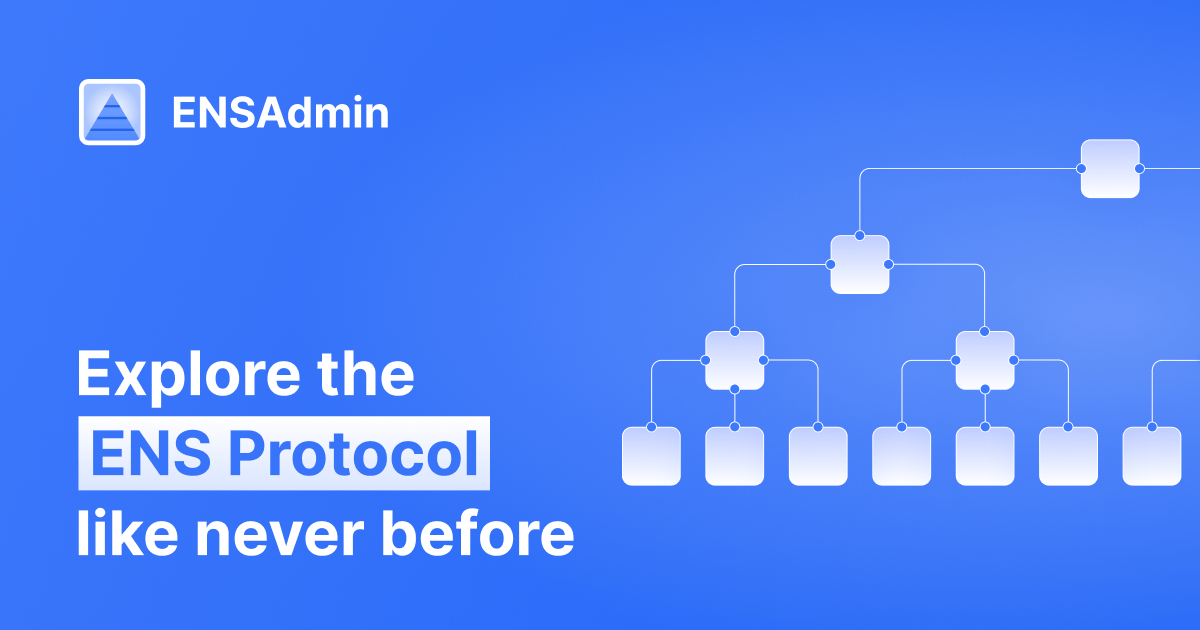
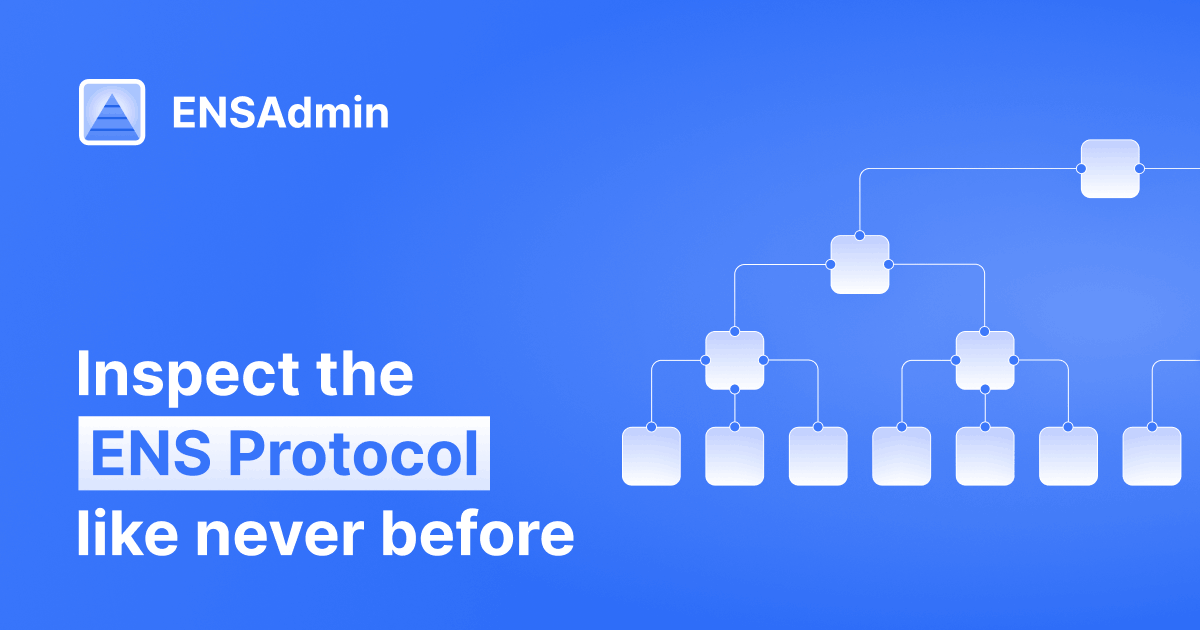
feat(ensadmin): update og image and title to "Inspect" (#2063)

Pull request: feat(ensadmin): update og image and title to "Inspect"
# Lite PR

[Tip: Review docs on the ENSNode PR process](https://ensnode.io/docs/contributing/prs)

## Summary

- What changed (1-3 bullets, no essays).

---

## Why

- Why this change exists. Link to related GitHub issues where relevant.

---

## Testing

- How this was tested.
- If you didn't test it, say why.

---

## Notes for Reviewer (Optional)

- Anything non-obvious or worth a heads-up.

---

## Pre-Review Checklist (Blocking)

- [x] This PR does not introduce significant changes and is low-risk to review quickly.
- [x] Relevant changesets are included (or are not required)

Changed region(s): [[0.0617, 0.5429, 0.3392, 0.6635]]

diff --git a/apps/ensadmin/src/app/inspect/records/page.tsx b/apps/ensadmin/src/app/inspect/records/page.tsx
@@ -1,8 +1,8 @@
 "use client";
 
 import type { Name } from "enssdk";
-import { User } from "lucide-react";
-import Link from "next/link";
+// import { User } from "lucide-react";
+// import Link from "next/link";
 import { useRouter, useSearchParams } from "next/navigation";
 import { useEffect, useMemo, useState } from "react";
 
@@ -16,7 +16,7 @@ import {
   getRecordResolutionRelativePath,
 } from "@/components/name-links";
 import { Pill } from "@/components/pill";
-import { Button } from "@/components/ui/button";
+// import { Button } from "@/components/ui/button";
 import { Card, CardContent, CardFooter, CardHeader, CardTitle } from "@/components/ui/card";
 import { Input } from "@/components/ui/input";
 import { Label } from "@/components/ui/label";
@@ -158,17 +158,17 @@ export default function ResolveRecordsInspector() {
           dataKey="records"
           accelerated={accelerated}
           unaccelerated={unaccelerated}
-          headerActions={
-            <Button variant="link" size="sm" asChild>
-              <Link
-                href={retainCurrentRawConnectionUrlParam(getNameDetailsRelativePath(nameFromQuery))}
-                className="inline-flex items-center gap-1"
-              >
-                View Profile
-                <User size={12} />
-              </Link>
-            </Button>
-          }
+          // headerActions={
+          //   <Button variant="link" size="sm" asChild>
+          //     <Link
+          //       href={retainCurrentRawConnectionUrlParam(getNameDetailsRelativePath(nameFromQuery))}
+          //       className="inline-flex items-center gap-1"
+          //     >
+          //       View Profile
+          //       <User size={12} />
+          //     </Link>
+          //   </Button>
+          // }
         />
       )}
     </div>

diff --git a/apps/ensadmin/src/components/app-sidebar.tsx b/apps/ensadmin/src/components/app-sidebar.tsx
@@ -20,16 +20,16 @@ const navItems = [
     url: "/status",
     icon: Activity,
   },
-  {
-    title: "ENS Explorer",
-    url: "#",
-    icon: Telescope,
-    isActive: true,
-    items: [
-      { title: "Names", url: "/name" },
-      { title: "Registrar Actions", url: "/registrar-actions" },
-    ],
-  },
+  // {
+  //   title: "ENS Explorer",
+  //   url: "#",
+  //   icon: Telescope,
+  //   isActive: true,
+  //   items: [
+  //     { title: "Names", url: "/name" },
+  //     { title: "Registrar Actions", url: "/registrar-actions" },
+  //   ],
+  // },
   {
     title: "ENS Protocol Inspector",
     url: "#",

diff --git a/docs/ensnode.io/src/components/organisms/ENSNodeSuite.tsx b/docs/ensnode.io/src/components/organisms/ENSNodeSuite.tsx
@@ -24,7 +24,7 @@ const appsSuite: {
       />
     ),
     name: "ENSAdmin",
-    description: "Explore the ENS protocol like never before",
+    description: "Inspect the ENS protocol like never before",
     docsLinkHref: "/ensadmin",
   },
   {
@@ -95,7 +95,10 @@ export default function ENSNodeSuite() {
                   href={namehashApp.docsLinkHref}
                   target="_blank"
                   rel="noopener noreferrer"
-                  className={legacyButtonVariants({ variant: "secondary", size: "medium" })}
+                  className={legacyButtonVariants({
+                    variant: "secondary",
+                    size: "medium",
+                  })}
                 >
                   View documentation
                 </a>

diff --git a/apps/ensadmin/src/app/layout.tsx b/apps/ensadmin/src/app/layout.tsx
@@ -18,7 +18,7 @@ const inter = Inter({
 
 const siteName = "ENSAdmin";
 const title = "ENSAdmin";
-const description = "Explore the ENS Protocol like never before";
+const description = "Inspect the ENS Protocol like never before";
 
 export const metadata: Metadata = {
   title: title,

diff --git a/apps/ensadmin/src/app/page.tsx b/apps/ensadmin/src/app/page.tsx
@@ -17,7 +17,7 @@ export default function SplashPage() {
           </div>
 
           <p className="md:text-xl text-muted-foreground max-w-md">
-            Explore the ENS Protocol like never before
+            Inspect the ENS Protocol like never before
           </p>
 
           <Button asChild size="lg">